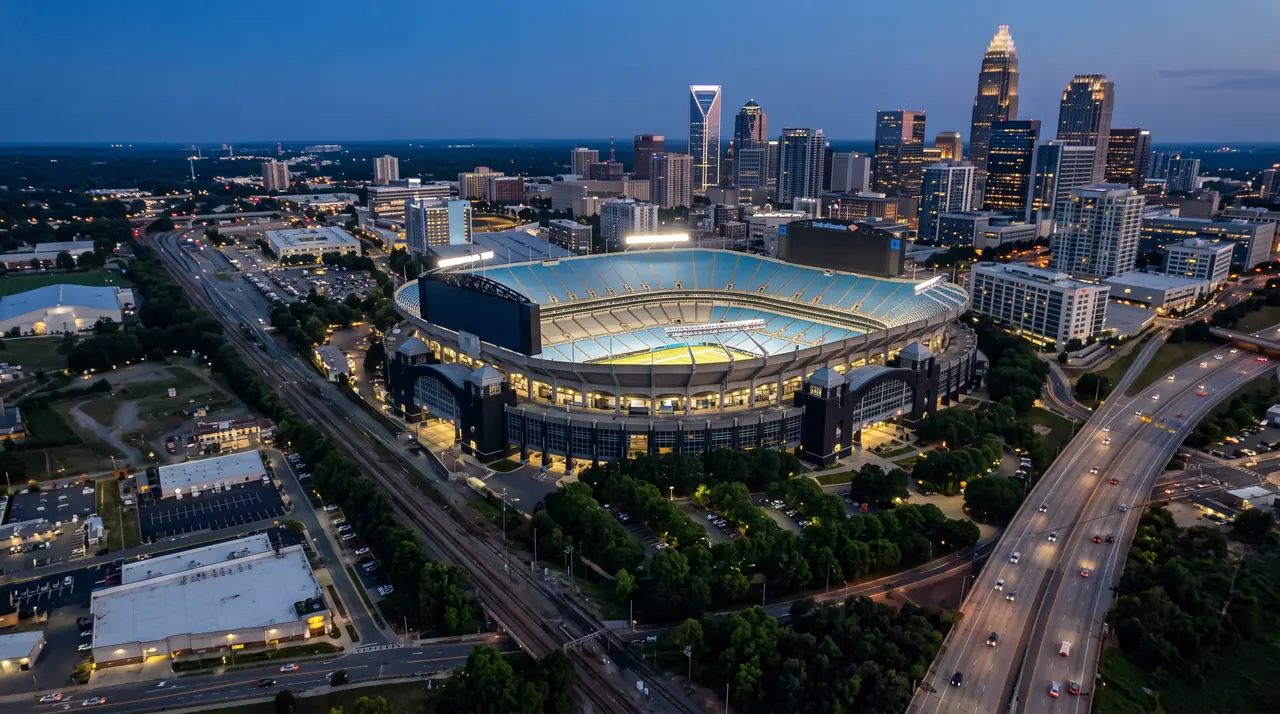
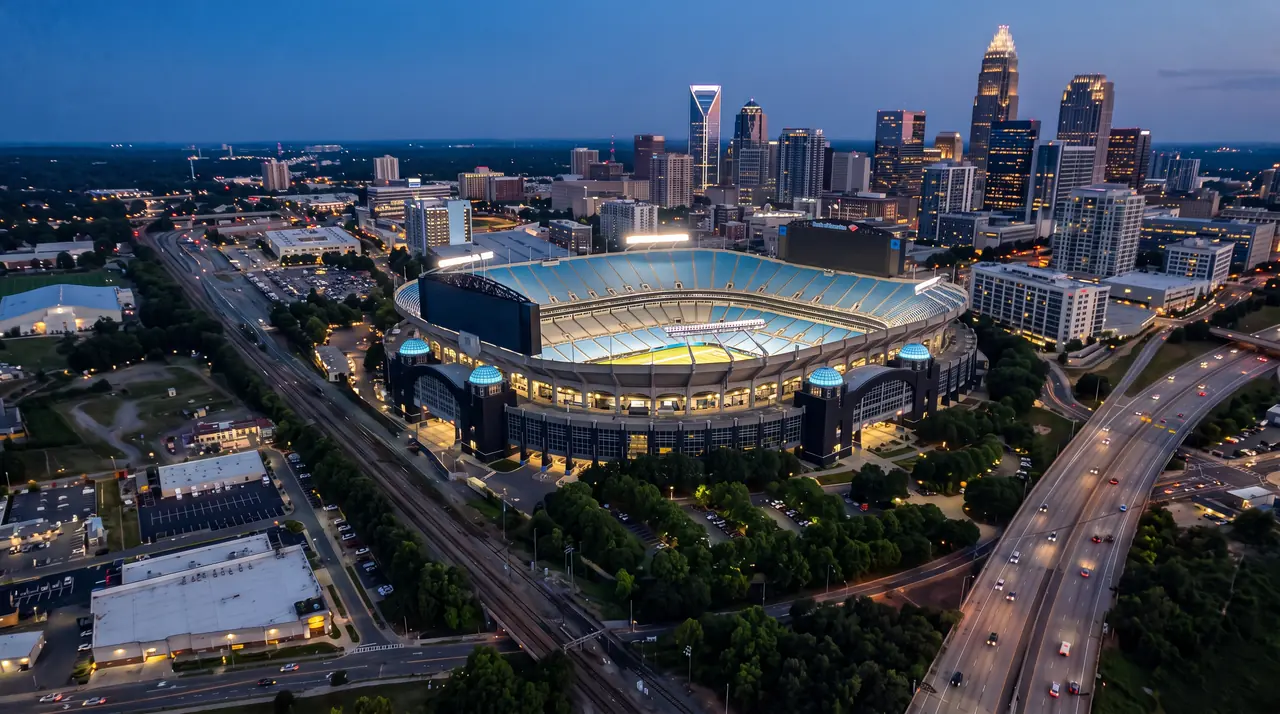
nfl: stadium pictures checked against real photos, and fixed
Each of the 32 pictures was compared with real photos of its stadium
(Wikimedia Commons, the Library of Congress) for its form, which end
faces where and what's around it. Fourteen are corrected:

- made again from their aerials: Minneapolis (the glass wall faces
  downtown), Seattle (the tall stand is the south end), Pittsburgh (the
  horseshoe opens towards the Point; also from a public-domain Highsmith
  aerial), Philadelphia (the winged sideline canopies) and Buffalo (the
  new stadium's silver panel wall, no skyline);
- edited: Cleveland (the lake-side upper deck), Denver (the full east
  stand), Las Vegas (no window wall on the west side), Charlotte (the
  glass domes), Arizona (the roof's lid), New Orleans (no invented
  river), Kansas City (Kauffman behind Arrowhead), Jacksonville (downtown
  behind the stadium) and Tampa (no skyline in the wrong direction).

The Jets' and Giants' pictures were right but seen from other sides:
their descriptions now say from the south and from the north-west.
The notices credit the Highsmith photograph.

Claude-Session: https://claude.ai/code/session_01SuTy6viRSue2xTcU4TVzXA

diff --git a/app/src/main/kotlin/com/phonoodlesramen/actioncenter/nfl/NflCities.kt b/app/src/main/kotlin/com/phonoodlesramen/actioncenter/nfl/NflCities.kt
@@ -21,7 +21,7 @@ object NflCities {
         "BUF" to CityArt("The new Highmark Stadium under its canopy, Orchard Park"),
         "MIA" to CityArt("Hard Rock Stadium under its canopy, Miami Gardens", focusY = 0.47f),
         "NE" to CityArt("Gillette Stadium and its lighthouse beside Patriot Place, Foxborough", focusX = 0.55f),
-        "NYJ" to CityArt("MetLife Stadium from the east, the Meadowlands behind it, East Rutherford", focusX = 0.48f, focusY = 0.52f),
+        "NYJ" to CityArt("MetLife Stadium from the south, the racetrack and the Meadowlands behind it, East Rutherford", focusX = 0.48f, focusY = 0.52f),
         "BAL" to CityArt("M&T Bank Stadium beside the ballpark at Camden Yards, Baltimore", focusX = 0.49f, focusY = 0.56f),
         "CIN" to CityArt("Paycor Stadium on the Ohio, downtown Cincinnati behind it", focusX = 0.56f),
         "CLE" to CityArt("Huntington Bank Field on the Lake Erie shore, downtown Cleveland behind it", focusY = 0.52f),
@@ -31,25 +31,25 @@ object NflCities {
         "JAX" to CityArt("EverBank Stadium on the St. Johns River, Jacksonville", focusX = 0.56f, focusY = 0.52f),
         "TEN" to CityArt("Nissan Stadium across the Cumberland from downtown Nashville", focusX = 0.51f, focusY = 0.52f),
         "DEN" to CityArt("Empower Field at Mile High, the Rockies behind it, Denver", focusX = 0.49f, focusY = 0.42f),
-        "KC" to CityArt("Arrowhead Stadium beside Kauffman Stadium, Kansas City", focusX = 0.51f, focusY = 0.47f),
+        "KC" to CityArt("Arrowhead Stadium, Kauffman Stadium just behind it, Kansas City", focusX = 0.51f, focusY = 0.47f),
         "LV" to CityArt("Allegiant Stadium beside the Strip, Las Vegas", focusX = 0.54f),
         "LAC" to CityArt("SoFi Stadium from the north-east, the airport and the Pacific behind it, Inglewood", focusX = 0.55f, focusY = 0.61f),
         "DAL" to CityArt("AT&T Stadium and its glass ends, Arlington", focusX = 0.52f, focusY = 0.46f),
-        "NYG" to CityArt("MetLife Stadium from the west, Manhattan on the horizon, East Rutherford", focusX = 0.53f, focusY = 0.53f),
-        "PHI" to CityArt("Lincoln Financial Field in the sports complex, Philadelphia"),
+        "NYG" to CityArt("MetLife Stadium from the north-west, Manhattan on the horizon, East Rutherford", focusX = 0.53f, focusY = 0.53f),
+        "PHI" to CityArt("Lincoln Financial Field and its winged canopies, the skyline behind it, Philadelphia"),
         "WSH" to CityArt("Northwest Stadium in its lots, Landover", focusX = 0.55f, focusY = 0.49f),
         "CHI" to CityArt("Soldier Field on the lakefront, the Chicago skyline behind it", focusY = 0.59f),
         "DET" to CityArt("Ford Field's brick warehouse front, downtown Detroit behind it", focusX = 0.49f, focusY = 0.62f),
         "GB" to CityArt("Lambeau Field among the houses of Green Bay", focusX = 0.51f, focusY = 0.47f),
-        "MIN" to CityArt("U.S. Bank Stadium's glass prow, downtown Minneapolis behind it", focusX = 0.56f),
+        "MIN" to CityArt("U.S. Bank Stadium's translucent roof and prow, downtown Minneapolis behind it", focusX = 0.45f),
         "ATL" to CityArt("Mercedes-Benz Stadium's petals, downtown Atlanta behind it", focusY = 0.55f),
         "CAR" to CityArt("Bank of America Stadium below uptown Charlotte", focusX = 0.53f, focusY = 0.49f),
         "NO" to CityArt("The Superdome in downtown New Orleans, the Mississippi behind it", focusX = 0.47f, focusY = 0.45f),
-        "TB" to CityArt("Raymond James Stadium, downtown Tampa on the horizon", focusX = 0.48f, focusY = 0.49f),
+        "TB" to CityArt("Raymond James Stadium among the lights of Tampa", focusX = 0.48f, focusY = 0.49f),
         "ARI" to CityArt("State Farm Stadium in the desert, the mountains behind it, Glendale", focusY = 0.53f),
         "LAR" to CityArt("SoFi Stadium from the south-west, downtown Los Angeles on the horizon, Inglewood", focusX = 0.6f, focusY = 0.49f),
         "SF" to CityArt("Levi's Stadium and its suite tower, the bay behind it, Santa Clara", focusX = 0.55f, focusY = 0.47f),
-        "SEA" to CityArt("Lumen Field's arches, downtown Seattle and the Space Needle behind it", focusX = 0.48f, focusY = 0.56f),
+        "SEA" to CityArt("Lumen Field's arches, downtown Seattle and the Space Needle behind it", focusX = 0.48f, focusY = 0.62f),
     )
 
     /** The pictures' folder in the assets. */

diff --git a/docs/design/ui-spec.md b/docs/design/ui-spec.md
@@ -1241,13 +1241,16 @@ strip tile.
   for the app with Artlist's image generation (Nano Banana 2.1, with web search), each from a
   public-domain aerial photograph of the stadium (USDA NAIP, from The National Map), so the
   stadium's shape, its orientation and its surroundings are true. The new Highmark Stadium,
-  newer than the aerials, is from the words alone. The prompts ask for no lettering or logos;
-  the few signs the generator drew anyway are left as drawn. Shipped in `assets/nfl/cities/` as 1280 px WebP at
+  newer than the aerials, is from the words alone. Each was then checked against real photos
+  of the stadium (Wikimedia Commons, the Library of Congress) for its form, which end faces
+  where and what's around it, and corrected where it was wrong. The prompts ask for no
+  lettering or logos; the few signs the generator drew anyway are left as drawn. Shipped in
+  `assets/nfl/cities/` as 1280 px WebP at
   quality 75, about 130 KB each and 4.1 MB in all. `NflCities.art` lists each with what it
   shows and where its stadium is, so a crop keeps the stadium in view, from the scoreboard's
   wide band to Marquee's tall halves. The teams that share a stadium are seen from opposite
-  sides: the Giants from the west with Manhattan behind, the Jets from the east over the
-  Meadowlands; the Rams from the south-west towards downtown, the Chargers from the north-east
+  sides: the Giants from the north-west with Manhattan behind, the Jets from the south over
+  the racetrack and the Meadowlands; the Rams from the south-west towards downtown, the Chargers from the north-east
   towards the Pacific (docs/third-party-notices.md).
 - **How they look:** each at 60% colour, under the dark of `background` (50%; the card 60%,
   Marquee 30% under its own scrims), with the team's colour from its outer edge (42% to 10%),

diff --git a/docs/third-party-notices.md b/docs/third-party-notices.md
@@ -61,7 +61,10 @@ Artlist's terms for AI-generated content. They aren't photographs.
 Each was generated from an aerial photograph of the stadium, for its layout: USDA's National
 Agriculture Imagery Program (NAIP), from the USGS National Map's imagery service
 (imagery.nationalmap.gov; "USGS, USDA, The National Map: Orthoimagery"), which is in the public
-domain. The aerials themselves aren't shipped.
+domain. Pittsburgh's was also generated from a photograph by Carol M. Highsmith, "Aerial view
+of Pittsburgh, Pennsylvania, with a focus on Heinz Field" (2019), from the Carol M. Highsmith
+Archive at the Library of Congress, which she dedicated to the public domain. Neither the
+aerials nor that photograph is shipped.
 
 The pictures show buildings as seen from public places (17 U.S.C. § 120(a)). They were asked
 for with no logos, team marks or lettering; a few stadium and sponsor signs the generator drew
